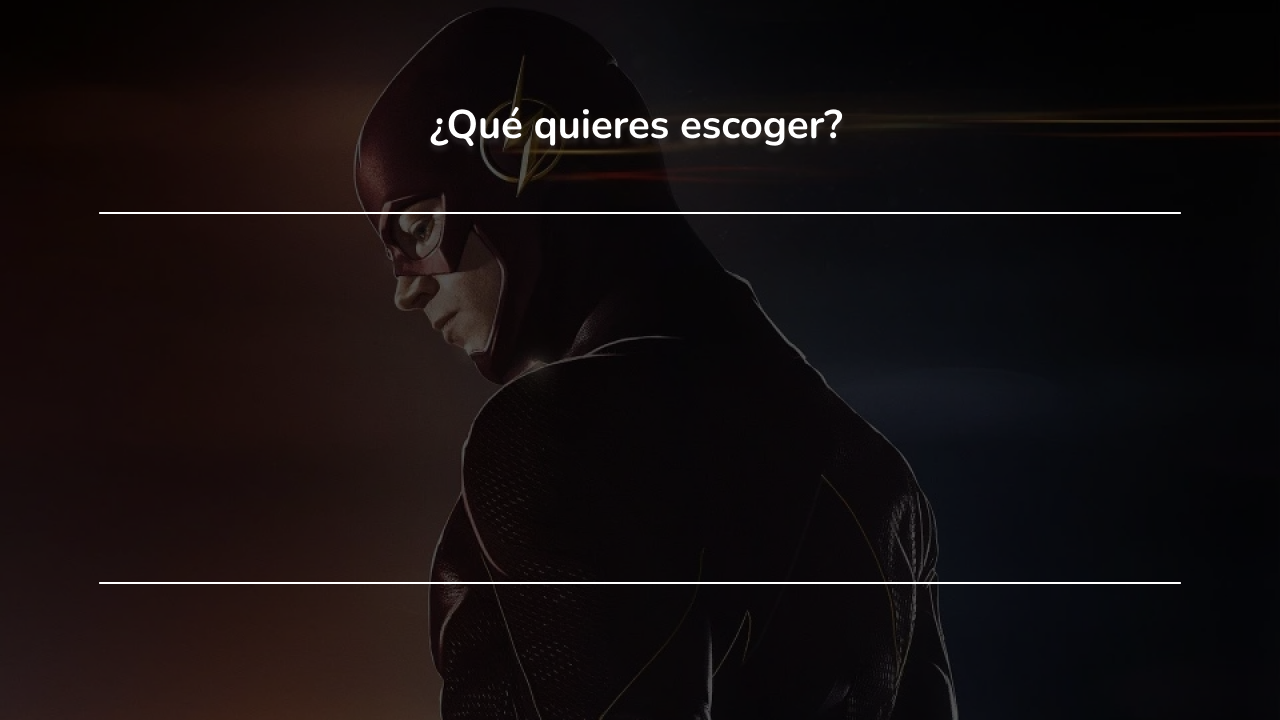
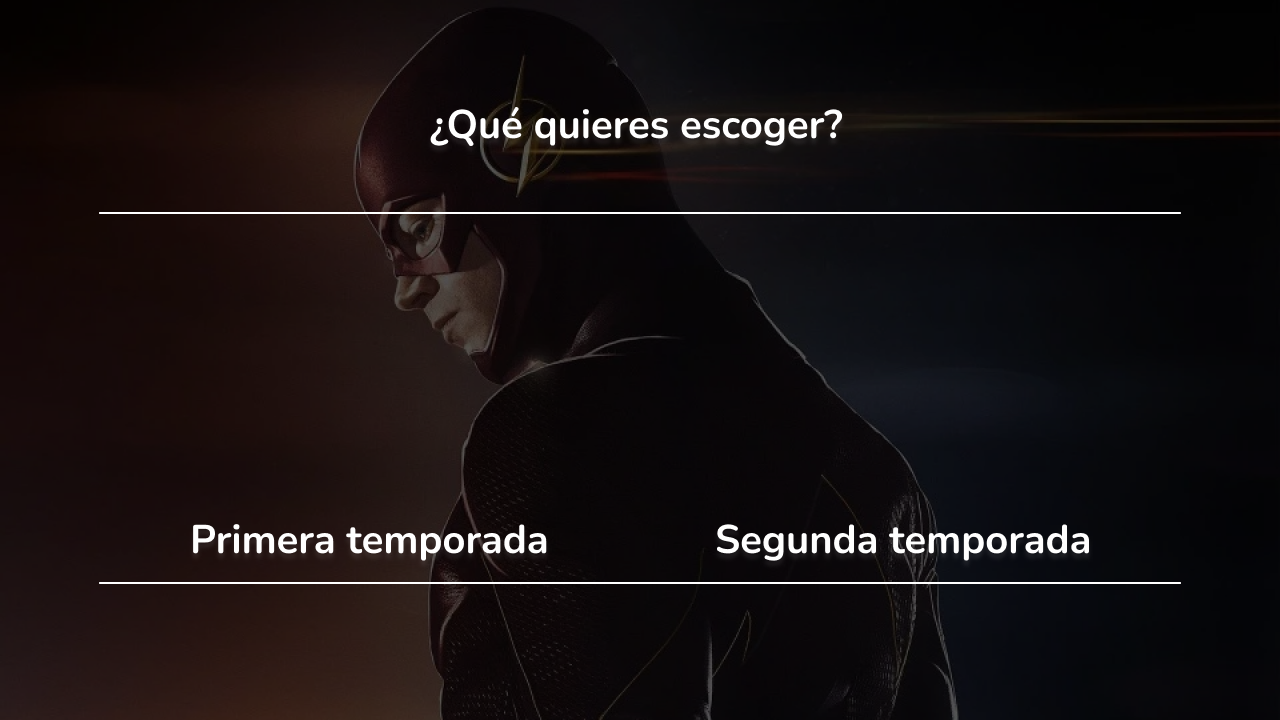
Septimo commit

Changed region(s): [[0.5625, 0.7333, 0.875, 0.7944], [0.125, 0.7333, 0.4375, 0.7944]]

diff --git a/imagenes.js b/imagenes.js
@@ -3,48 +3,50 @@ class Imagenes{
         this.pantalla = pantalla;
         this.menu = loadImage('./Images/Menu.jpg');
         this.primeraPagina = loadImage('./Images/PrimeraPagina.png');
-        this.boton = new Botones({
+        this.segundaPagina = loadImage('./images/SegundaPagina.png');
+        this.terceraPagina = loadImage('./images/TerceraPagina.png');
+        this.boton0 = new Botones({
             x: 500,
             y: 600,
-            b: 233,
-            h: 2345,
+            b: 60,
+            h: 20,
             image: loadImage('./Images/Songs.png')
         })
         this.boton1 = new Botones({
             x: 750,
             y: 600,
-            b: 750,
-            h: 600,
+            b: 50,
+            h: 20,
             image: loadImage('./Images/Playlist.png')
         })
         this.boton2 = new Botones({
-            x: 350,
+            x: 340,
             y: 400,
-            b: 879,
-            h: 567.,
+            b: 200,
+            h: 200,
             image: loadImage('./images/Flash1.png')
         })
         this.boton3 = new Botones({
             x: 870,
             y: 400,
-            b: 345,
-            h: 678,
+            b: 200,
+            h: 300,
             image: loadImage('./images/Flash2.png')
         })
     }
 
-    pantalla0(){
-        if(this.pantalla === 0){
+    pantalla1(){
+        if(this.pantalla === 1){
             image(this.menu, 600, 360);
             imageMode(CENTER);
-            this.boton.show();
+            this.boton0.show();
             this.boton1.show();
             imageMode(CENTER);
         }
     }
 
-    pantalla1(){
-        if(this.pantalla === 1){
+    pantalla2(){
+        if(this.pantalla === 2){
             image(this.primeraPagina, 600, 360);
             imageMode(CENTER);
             this.boton2.show();
@@ -52,15 +54,34 @@ class Imagenes{
             
         }
     }
+    
+    pantalla3(){
+        if(this.pantalla === 3){
+            image(this.segundaPagina, 600, 360);
+            imageMode(CENTER);
+        }
+    }
+
+    pantalla4(){
+        if(this.pantalla === 4){
+            image(this.terceraPagina, 600, 360);
+            imageMode(CENTER);
+        }
+    }
 
     click(mouseX, mouseY){
-        if(this.pantalla === 0){
-            if(this.boton.cli(mouseX, mouseY)){
+        if(this.pantalla === 1){
+            if(this.boton1.cli(mouseX, mouseY)){
                 this.pantalla = 2;
             }
-            if(this.boton1.cli(mouseX, mouseY)){
-                this.pantalla = 1;
+        }
+        if(this.pantalla === 2){
+            if(this.boton3.cli(mouseX, mouseY)){
+                this.pantalla = 3;
+            }
+            if(this.boton2.cli(mouseX, mouseY)){
+                this.pantalla = 4;
             }
         }
     }
-}
+ }

diff --git a/sketch.js b/sketch.js
@@ -1,5 +1,5 @@
 let imagenes;
-let pantalla = 0;
+let pantalla = 1;
 
 
 function preload(){
@@ -13,8 +13,10 @@ function setup() {
 
 function draw() {
   background(0);
-  imagenes.pantalla0();
   imagenes.pantalla1();
+  imagenes.pantalla2();
+  imagenes.pantalla3();
+  imagenes.pantalla4();
 }
 
 function mousePressed(){
